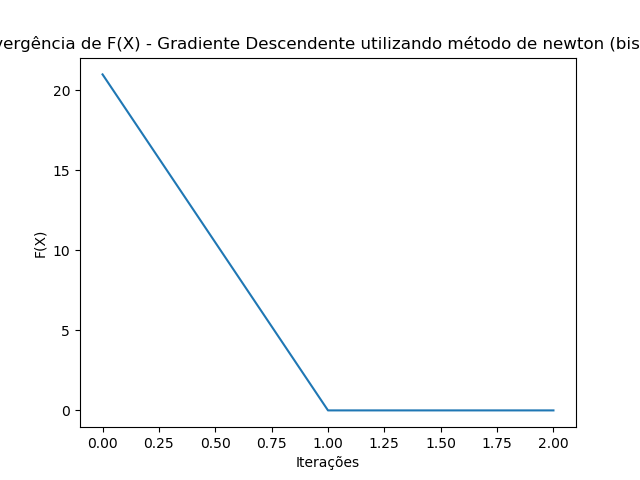
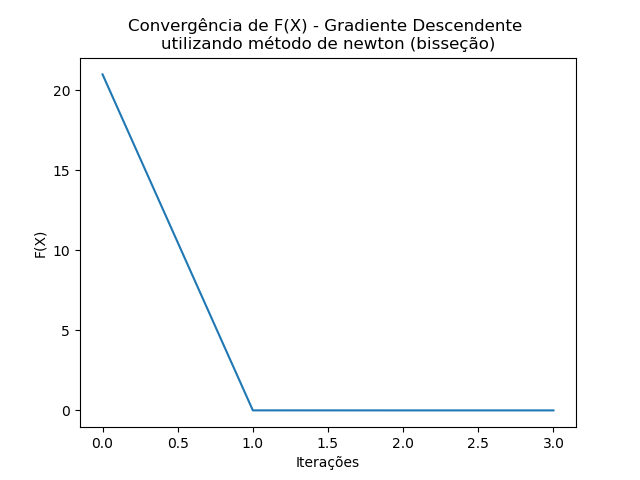
Finalizando Atividade 2

diff --git a/Atividade 2/modelos_otimizacao.py b/Atividade 2/modelos_otimizacao.py
@@ -11,7 +11,7 @@ import matplotlib.pyplot as plt
 def f_X(x):
     """ f(x1, x2) = x1^2 + 2*x2^2 -2X1X2-2X2
     """
-    return np.power(x[0],2) + 2*np.power(x[1],2) - 2*x[0]*x[1] - x[1] 
+    return np.power(x[0],2) + 2*np.power(x[1],2) - 2*x[0]*x[1] - 2*x[1] 
 
 def gradF_X(x):
     """ Retorna o gradiente da função f_x
@@ -25,7 +25,9 @@ def hessiana_X(x):
 
 def grad_descendente(x, taxa_aprendizado_fixa=None, iter_max=1000, max_error=1e-3):
 
+
     J = []
+    normas = []
     f_val = f_X(x)
     J.append(f_val)
     print ("Valor inicial de F_X: %f" %(f_val))
@@ -34,8 +36,14 @@ def grad_descendente(x, taxa_aprendizado_fixa=None, iter_max=1000, max_error=1e-
 
         d = -gradF_X(x)
 
+        norm = np.abs(np.linalg.norm(d))
+        normas.append(norm)
+        if  norm < max_error:
+            print ("Valor de F_X na iteração final %i: %f" %(i, f_val))
+            return x, J, normas, i
+
         if taxa_aprendizado_fixa is None:
-            alpha = bissecao(x, d)
+            alpha = bissecao(x, d, gradF_X=gradF_X)
         else:
             alpha = taxa_aprendizado_fixa
         x += alpha*d
@@ -44,16 +52,12 @@ def grad_descendente(x, taxa_aprendizado_fixa=None, iter_max=1000, max_error=1e-
         # if i % 2 == 0:
         J.append(f_val)
         print ("Valor de F_X na iteração %i: %f" %(i, f_val))
-  
-        if np.abs(f_val) < max_error:
-            J.append(f_val)
-            print ("Valor de F_X na iteração final %i: %f" %(i, f_val))
-            return x, J
-    return x, J
+    return x, J, normas, i
 
 def grad_descendente_newton(x, taxa_aprendizado_fixa=None, iter_max=1000, max_error=1e-3):
 
     J = []
+    normas = []
     f_val = f_X(x)
     J.append(f_val)
     print ("Valor inicial de F_X: %f" %(f_val))
@@ -61,12 +65,19 @@ def grad_descendente_newton(x, taxa_aprendizado_fixa=None, iter_max=1000, max_er
     for i in range(iter_max):
 
         grad_x = gradF_X(x)
+      
+        norm = np.abs(np.linalg.norm(grad_x))
+        normas.append(norm)
+        if  norm < max_error:         
+            print ("Valor de F_X na iteração final %i: %f" %(i, f_val))
+            return x, J, normas, i
+
         H_x = hessiana_X(x)
         
         d = -np.linalg.inv(H_x) @ grad_x
         
         if taxa_aprendizado_fixa is None:
-            alpha = bissecao(x, d)
+            alpha = bissecao(x, d, gradF_X=gradF_X)
         else:
             alpha = taxa_aprendizado_fixa
         x += alpha*d
@@ -75,13 +86,9 @@ def grad_descendente_newton(x, taxa_aprendizado_fixa=None, iter_max=1000, max_er
         J.append(f_val)
         print ("Valor de F_X na iteração %i: %f" %(i, f_val))
   
-        if np.abs(f_val) < max_error:
-            J.append(f_val)
-            print ("Valor de F_X na iteração final %i: %f" %(i, f_val))
-            return x, J
-    return x, J
+    return x, J, normas, i
 
-def bissecao(x, direcao, alpha_superior=None, h_derivada_min=1e-3, max_error=1e-3):
+def bissecao(x, direcao, gradF_X, alpha_superior=None, h_derivada_min=1e-3, max_error=1e-3):
 
     alpha_inferior = 0
     if alpha_superior is None:
@@ -102,7 +109,7 @@ def bissecao(x, direcao, alpha_superior=None, h_derivada_min=1e-3, max_error=1e-
 
     for i in range(iter_maximas + 1):
         alpha_medio = (alpha_inferior + alpha_superior)/2
-        if np.abs(h_derivada) < h_derivada_min:
+        if np.abs(np.linalg.norm(h_derivada)) < h_derivada_min:
             return alpha_medio
         xn = x + alpha_medio*direcao
         grad_x = gradF_X(xn)
@@ -124,15 +131,20 @@ def gradiente_conjugado(x0, n, taxa_aprendizado_fixa=None, metodo=1, iter_max=10
     x = x0
     for i in range(iter_max):
         if taxa_aprendizado_fixa is None:
-            alpha = bissecao(x, d)
+            alpha = bissecao(x, d, gradF_X=gradF_X)
         else:
             alpha = taxa_aprendizado_fixa
         x_proximo = x + alpha*d
         fx = f_X(x_proximo)
+        
         J.append(fx)
-        if np.abs(fx) < max_error:
-            return x_proximo, J
+
         g = -gradF_X(x)
+        norm = np.abs(np.linalg.norm(g))
+        normas.append(norm)
+        if  norm < max_error:
+            return x_proximo, J, normas, i
+
         g_proximo = -gradF_X(x_proximo)
         if i % n != 0:
             if metodo == 1:
@@ -146,104 +158,158 @@ def gradiente_conjugado(x0, n, taxa_aprendizado_fixa=None, metodo=1, iter_max=10
         else:
             d = g
         x = x_proximo
-    return x, J
+    return x, J, normas, i
+
+
+def Levenberf_Marquardt(x, mu=0.0001, iter_max=1000, max_error=1e-3):
+    def r_x(x):
+        return np.array([x[0]-x[1], -x[0]+2*x[1]-1])
+    grad_r = np.array([[1, -1], [0, 1]])
+    
+    J = []
+    normas = []
+
+    for i in range(iter_max):
+
+        a = np.linalg.inv(grad_r.T @ grad_r + mu)
+        d = grad_r.T @ r_x(x)
+        x -= a @ d
+
+        norm = np.abs(np.linalg.norm(d))
+        normas.append(norm)
+        J.append(f_X(x))
+        if norm < max_error:
+            return x, J, normas, i
+    
+    return x, J, normas, i
+
+
 
 x = [1, 4]
 alpha=0.1
+show = False
 
-x, J = grad_descendente(x, taxa_aprendizado_fixa=alpha)
+x, J, normas, i = grad_descendente(x, taxa_aprendizado_fixa=alpha)
 print("Gradiente com taxa de aprendizado fixa:")
 print("X={}".format(x))
-print("J[-1]={:.2f} na iteração: {:d}\n".format(J[-1], len(J)))
+print("normas[-1]={:.2f} na iteração: {:d}\n".format(normas[-1],i))
 plt.plot(J)
-plt.title('Convergência de F(X) - Gradiente Descendente com taxa de aprendizado fixa')
+plt.axhline(y=-1, color='black', linestyle='dashed', alpha=0.3)
+plt.title('Convergência de F(X) - Gradiente Descendente \ncom taxa de aprendizado fixa')
 plt.xlabel('Iterações')
 plt.ylabel('F(X)')
 plt.savefig('./grad_descendente_passo_fixo.png')
-plt.show()
+if show: 
+    plt.show()
 plt.clf()
 
 
 x = [1, 4]
 
-x, J = grad_descendente(x)
+x, J, normas, i = grad_descendente(x)
 print("Gradiente com Passo Variável:")
 print("X={}".format(x))
-print("J[-1]={:.2f} na iteração: {:d}".format(J[-1], len(J)))
+print("J[-1]={:.2f} na iteração: {:d}".format(J[-1],i))
 plt.plot(J)
+plt.axhline(y=-1, color='black', linestyle='dashed', alpha=0.3)
 plt.title('Convergência de F(X) - Gradiente Descendente utilizando bisseção')
 plt.xlabel('Iterações')
 plt.ylabel('F(X)')
 plt.savefig('./grad_descendente_passo_variavel.png')
-plt.show()
+if show: 
+    plt.show()
 plt.clf()
 
 x = [1, 4]
 
-x, J = grad_descendente_newton(x, taxa_aprendizado_fixa=alpha)
+x, J, normas, i = grad_descendente_newton(x, taxa_aprendizado_fixa=alpha)
 print("Gradiente com Passo Variável:")
 print("X={}".format(x))
-print("J[-1]={:.2f} na iteração: {:d}".format(J[-1], len(J)))
+print("J[-1]={:.2f} na iteração: {:d}".format(J[-1],i))
 plt.plot(J)
-plt.title('Convergência de F(X) - Gradiente Descendente utilizando método de newton (taxa de aprendizado fixa)')
+plt.axhline(y=-1, color='black', linestyle='dashed', alpha=0.3)
+plt.title('Convergência de F(X) - Gradiente Descendente utilizando \nmétodo de newton (taxa de aprendizado fixa)')
 plt.xlabel('Iterações')
 plt.ylabel('F(X)')
 plt.savefig('./grad_descendente_newton.png')
-plt.show()
+if show: 
+    plt.show()
 plt.clf()
 
 x = [1, 4]
 
-x, J = grad_descendente_newton(x)
+x, J, normas, i = grad_descendente_newton(x)
 print("Gradiente com Passo Variável:")
 print("X={}".format(x))
-print("J[-1]={:.2f} na iteração: {:d}".format(J[-1], len(J)))
+print("J[-1]={:.2f} na iteração: {:d}".format(J[-1],i))
 plt.plot(J)
-plt.title('Convergência de F(X) - Gradiente Descendente utilizando método de newton (bisseção)')
+plt.axhline(y=-1, color='black', linestyle='dashed', alpha=0.3)
+plt.title('Convergência de F(X) - Gradiente Descendente \nutilizando método de newton (bisseção)')
 plt.xlabel('Iterações')
 plt.ylabel('F(X)')
 plt.savefig('./grad_descendente_newton_bissecao.png')
-plt.show()
+if show: 
+    plt.show()
 plt.clf()
 
 x = [1, 4]
 
-x, J = gradiente_conjugado(x, 2, taxa_aprendizado_fixa=alpha)
+x, J, normas, i = gradiente_conjugado(x, 2, taxa_aprendizado_fixa=alpha)
 print("Gradiente Conjugado com taxa de aprendizado fixa:")
 print("X={}".format(x))
-print("J[-1]={:.2f} na iteração: {:d}".format(J[-1], len(J)))
+print("J[-1]={:.2f} na iteração: {:d}".format(J[-1],i))
 plt.plot(J)
+plt.axhline(y=-1, color='black', linestyle='dashed', alpha=0.3)
 plt.title('Convergência de F(X) - Gradiente Conjugado taxa de aprendizado fixa')
 plt.xlabel('Iterações')
 plt.ylabel('F(X)')
 plt.savefig('./grad_conjugado_fixo.png')
-plt.show()
+if show: 
+    plt.show()
 plt.clf()
 
 x = [1, 4]
 
-x, J = gradiente_conjugado(x, 2)
+x, J, normas, i = gradiente_conjugado(x, 2)
 print("Gradiente Conjugado meodo bisseção:")
 print("X={}".format(x))
-print("J[-1]={:.2f} na iteração: {:d}".format(J[-1], len(J)))
+print("J[-1]={:.2f} na iteração: {:d}".format(J[-1],i))
 plt.plot(J)
-plt.title('Convergência de F(X) - Gradiente Conjugado (bisseção) - Fletcher-Reeves')
+plt.axhline(y=-1, color='black', linestyle='dashed', alpha=0.3)
+plt.title('Convergência de F(X) - Gradiente Conjugado \n(bisseção) - Fletcher-Reeves')
 plt.xlabel('Iterações')
 plt.ylabel('F(X)')
 plt.savefig('./grad_conjugado_bissecao_FR.png')
-plt.show()
+if show: 
+    plt.show()
 plt.clf()
 
 x = [1, 4]
-x, J = gradiente_conjugado(x, 2, metodo=2)
+x, J, normas, i = gradiente_conjugado(x, 2, metodo=2)
 print("Gradiente Conjugado Bisseção:")
 print("X={}".format(x))
-print("J[-1]={:.2f} na iteração: {:d}".format(J[-1], len(J)))
+print("J[-1]={:.2f} na iteração: {:d}".format(J[-1],i))
 plt.plot(J)
-plt.axhline(y=0, color='black', linestyle='dashed')
-plt.title('Convergência de F(X) - Gradiente Conjugado (bisseção) - Polak-Ribiére')
+plt.axhline(y=-1, color='black', linestyle='dashed', alpha=0.3)
+plt.title('Convergência de F(X) - Gradiente Conjugado \n(bisseção) - Polak-Ribiére')
 plt.xlabel('Iterações')
 plt.ylabel('F(X)')
 plt.savefig('./grad_conjugado_bissecao_PR.png')
-plt.show()
+if show: 
+    plt.show()
+plt.clf()
+
+x = [1, 4]
+x, J, normas, i = Levenberf_Marquardt(x)
+print("Levenberf Marquardt:")
+print("X={}".format(x))
+print("J[-1]={:.2f} na iteração: {:d}".format(J[-1],i))
+plt.plot(J)
+plt.axhline(y=-1, color='black', linestyle='dashed', alpha=0.3)
+plt.title('Convergência de F(X) - Levenberf Marquardt')
+plt.xlabel('Iterações')
+plt.ylabel('F(X)')
+plt.savefig('./Levenberf_Marquardt.png')
+if show: 
+    plt.show()
 plt.clf()

diff --git a/Atividade 2/tmp.py b/Atividade 2/tmp.py
@@ -1,0 +1,32 @@
+import numpy as np
+from numpy import random
+
+def grad(x1,x2):
+    return np.array([x1-x2, 2*x2 -x1 - 1])
+
+def r_x(x):
+        return np.array([x[0]-x[1], -x[0]+2*x[1]-1])
+
+Hessiana = np.array([ [1,0],[-1,1] ]) @ np.array([[1,-1],[0,1]])
+
+#Inicializando
+alpha = 1
+k = 0
+interaction = 500
+# x = np.array([  random.randint(0, 10)  ,  random.randint(0, 10)  ])
+x = [1, 4]
+print(x)
+#Metodo de LM
+mu = 0.00001
+grad_r = np.array([[1, -1], [0, 1]])
+
+for k in range(0,interaction):
+    mu = 0.00001
+    # x = x - alpha*np.linalg.inv(Hessiana + 0.00001) @ grad(x[0],x[1])   
+    alpha = bissecao(x, d, gradF_X=grad_r.T @ r_x)
+    x = x - alpha*np.linalg.inv(grad_r.T @ grad_r + mu) @ grad_r.T @ r_x(x)
+     
+    print(x, k)
+    if np.linalg.norm(grad(x[0],x[1])) < 1.0e-09:
+        break
+x
